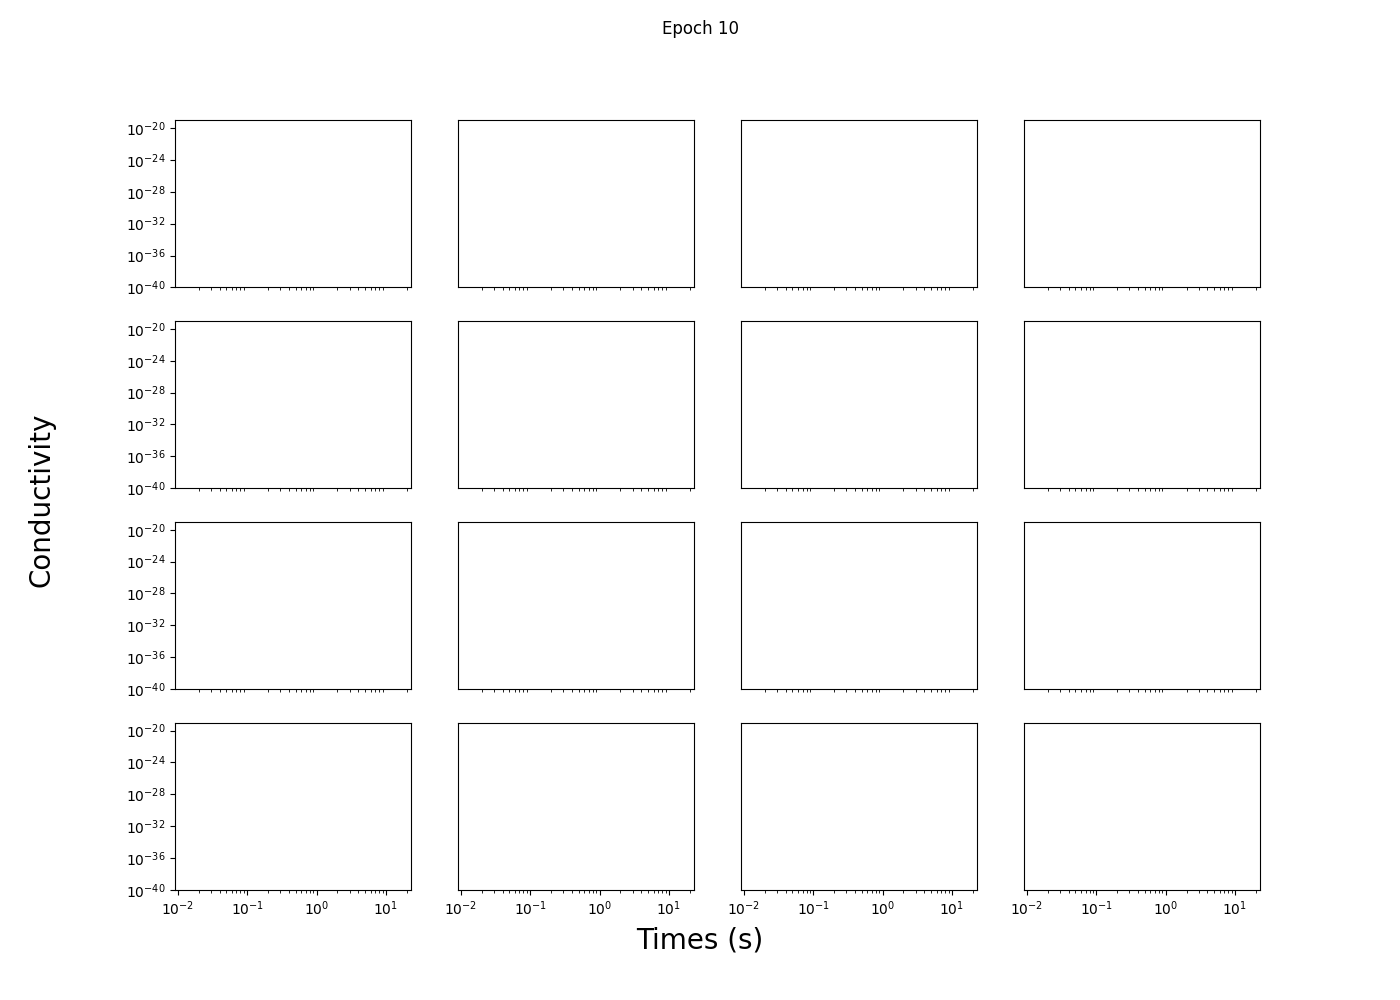
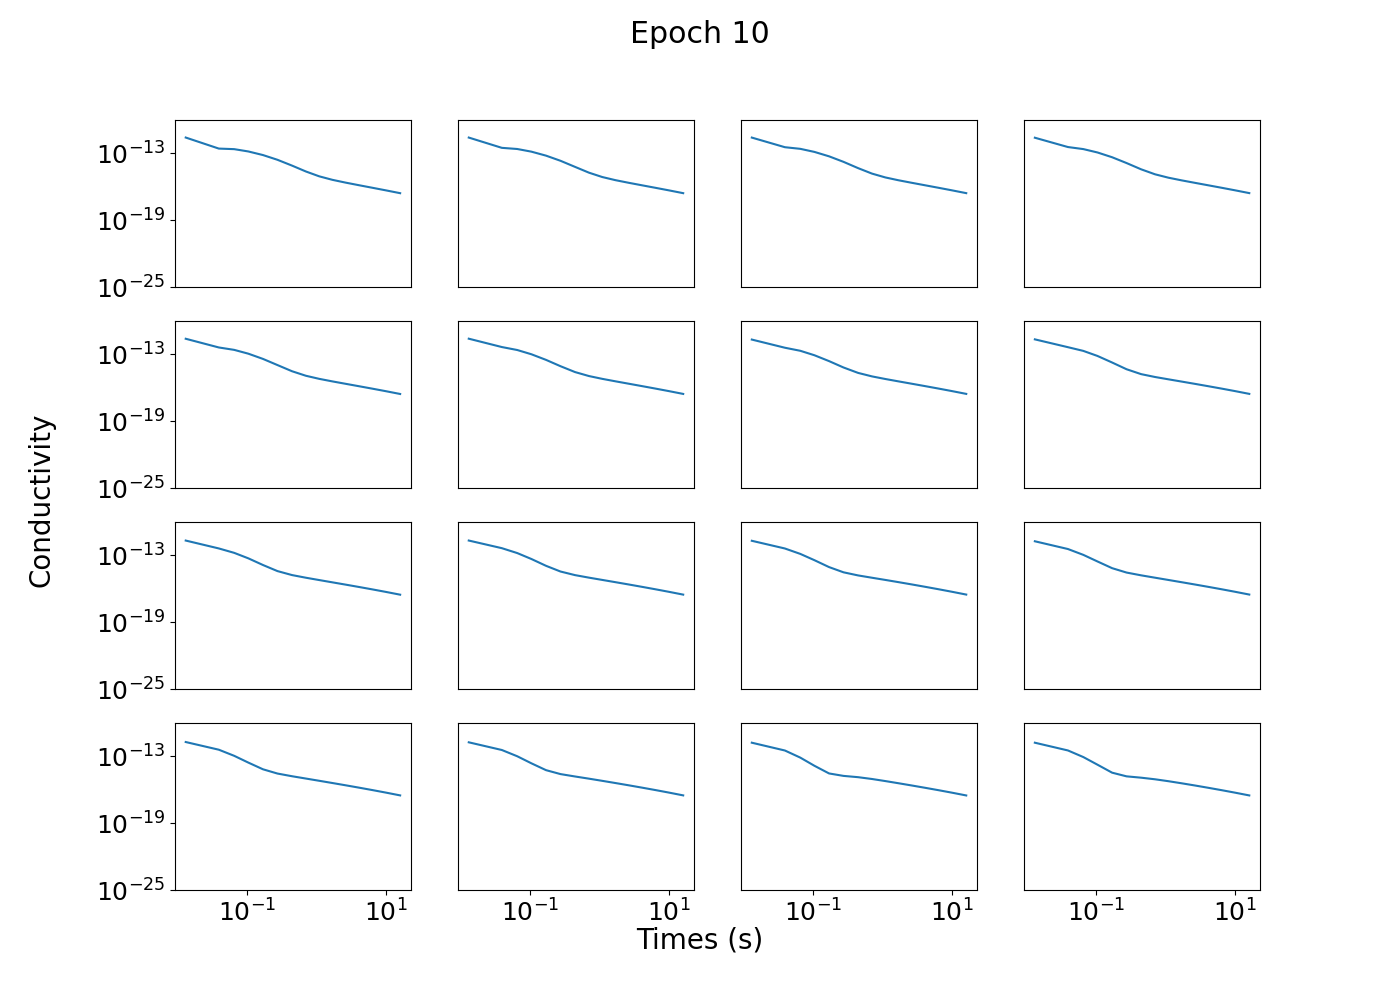
Slight adjustment of ylim on plot residuals

diff --git a/cgnn/cvae_mt64_updated.py b/cgnn/cvae_mt64_updated.py
@@ -455,7 +455,7 @@ class CVAE(Model):
                    legend_labels=['obs','pre'],x_label='Times (s)', y_label='Conductivity')
 
     def plot_residuals(self, save2file=False, folder='.', samples=16,
-                       latent=None, step=None, ylims=(1e-40, 1e-19),
+                       latent=None, step=None, ylims=(1e-25, 1e-10),
                        weighted=True):
         '''
         Plot data residuals;
